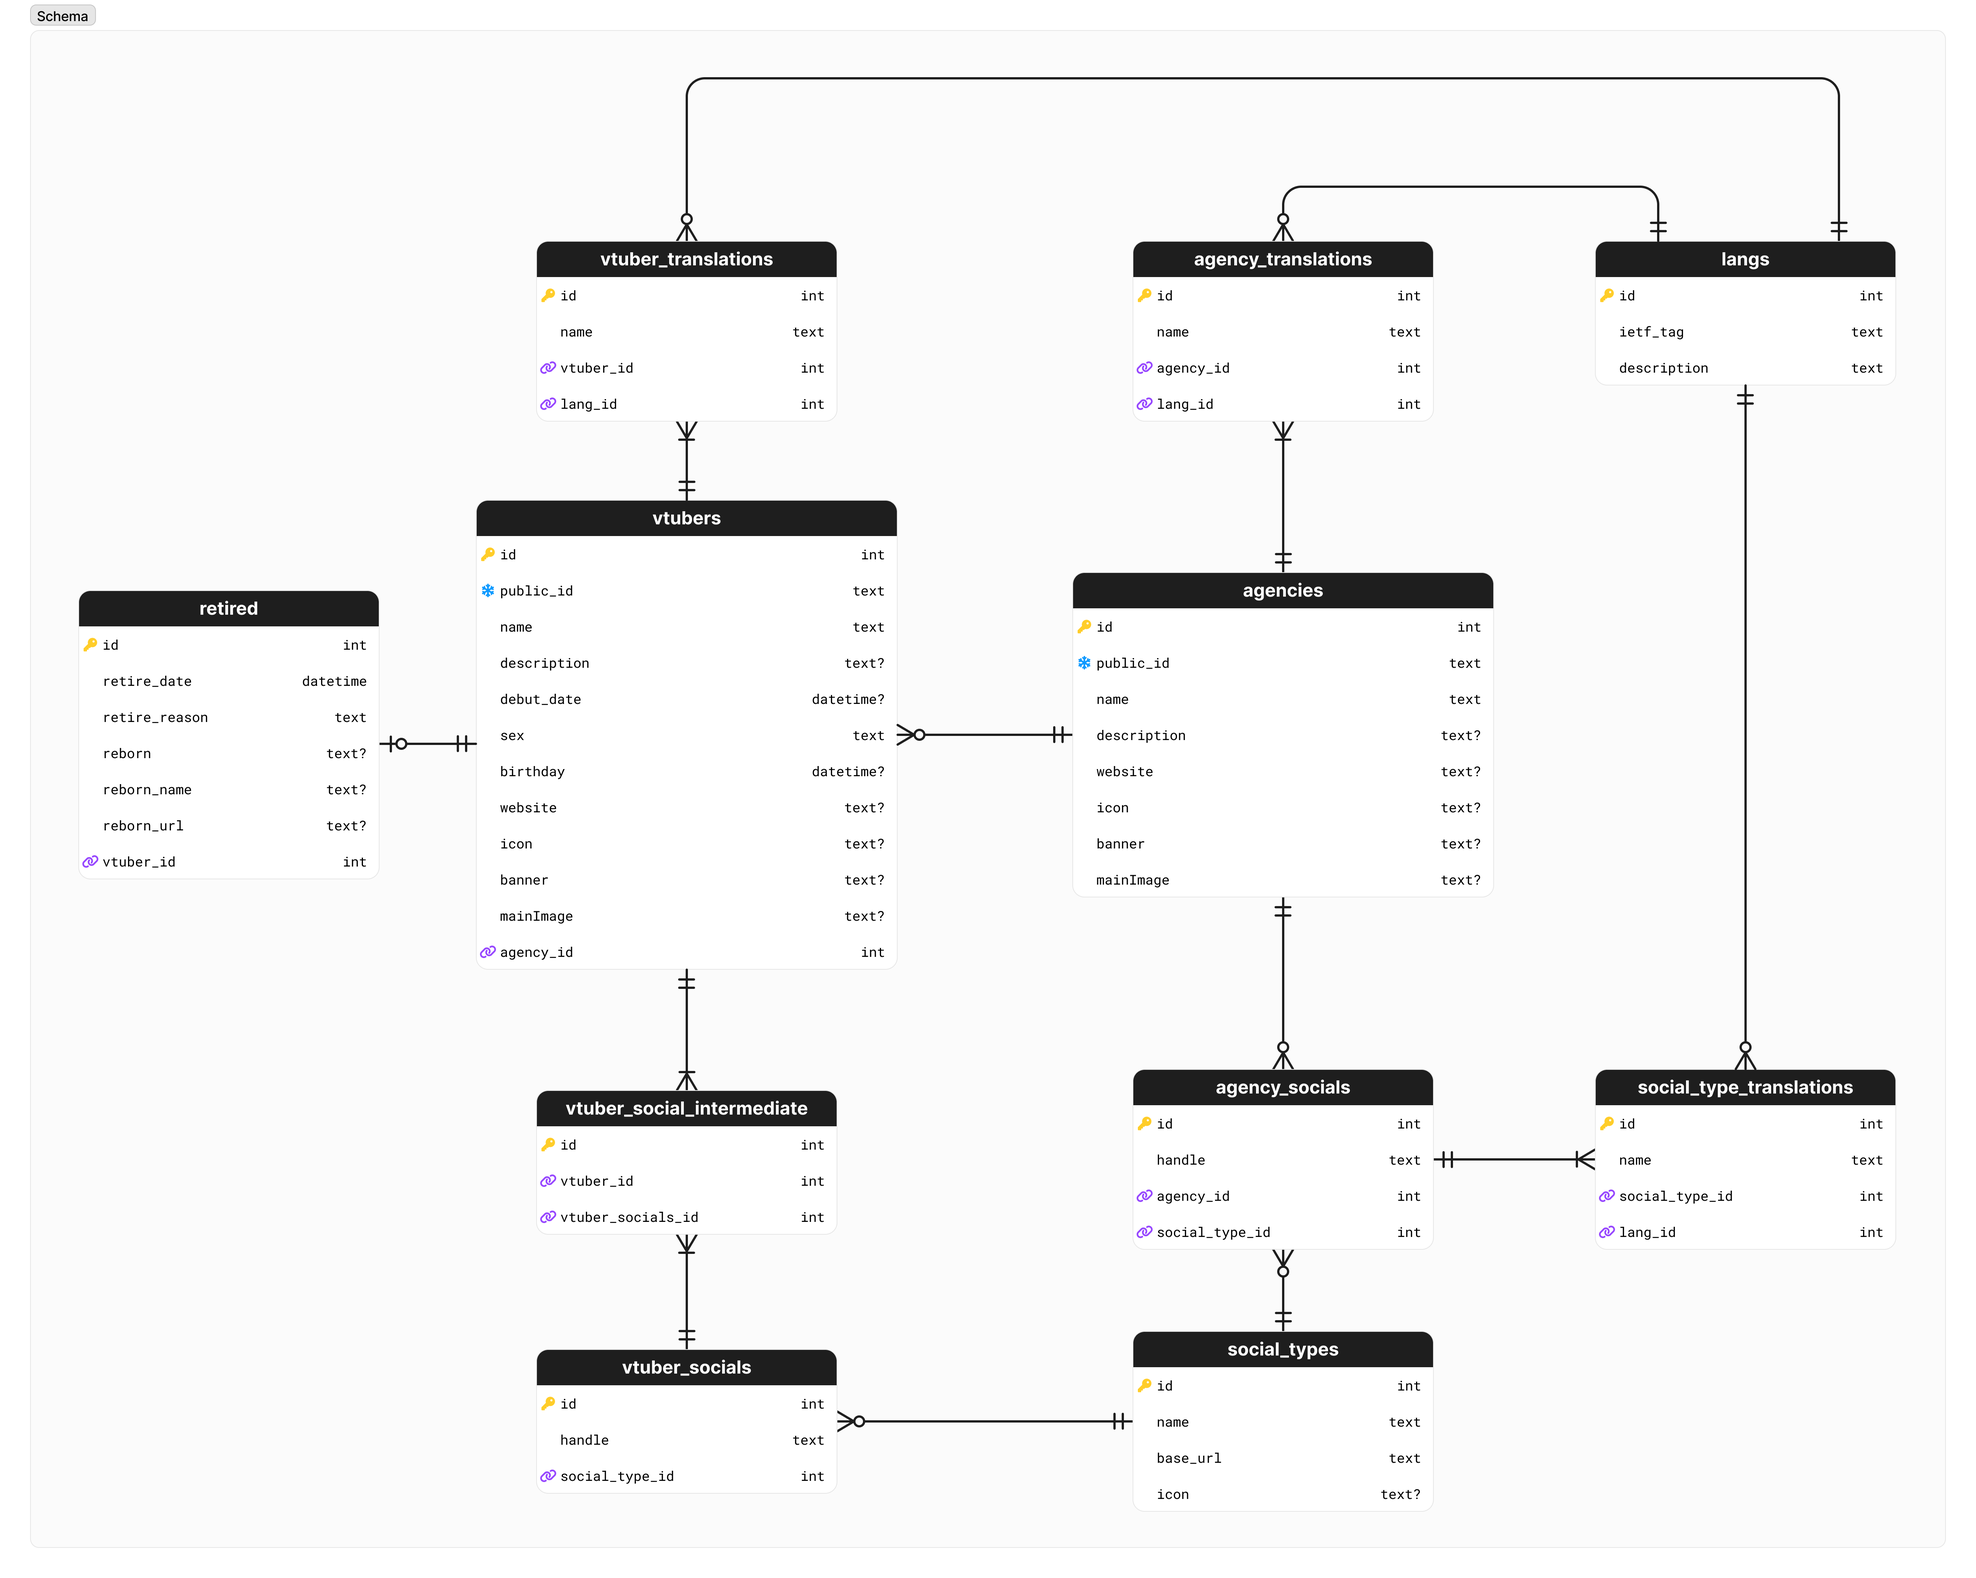
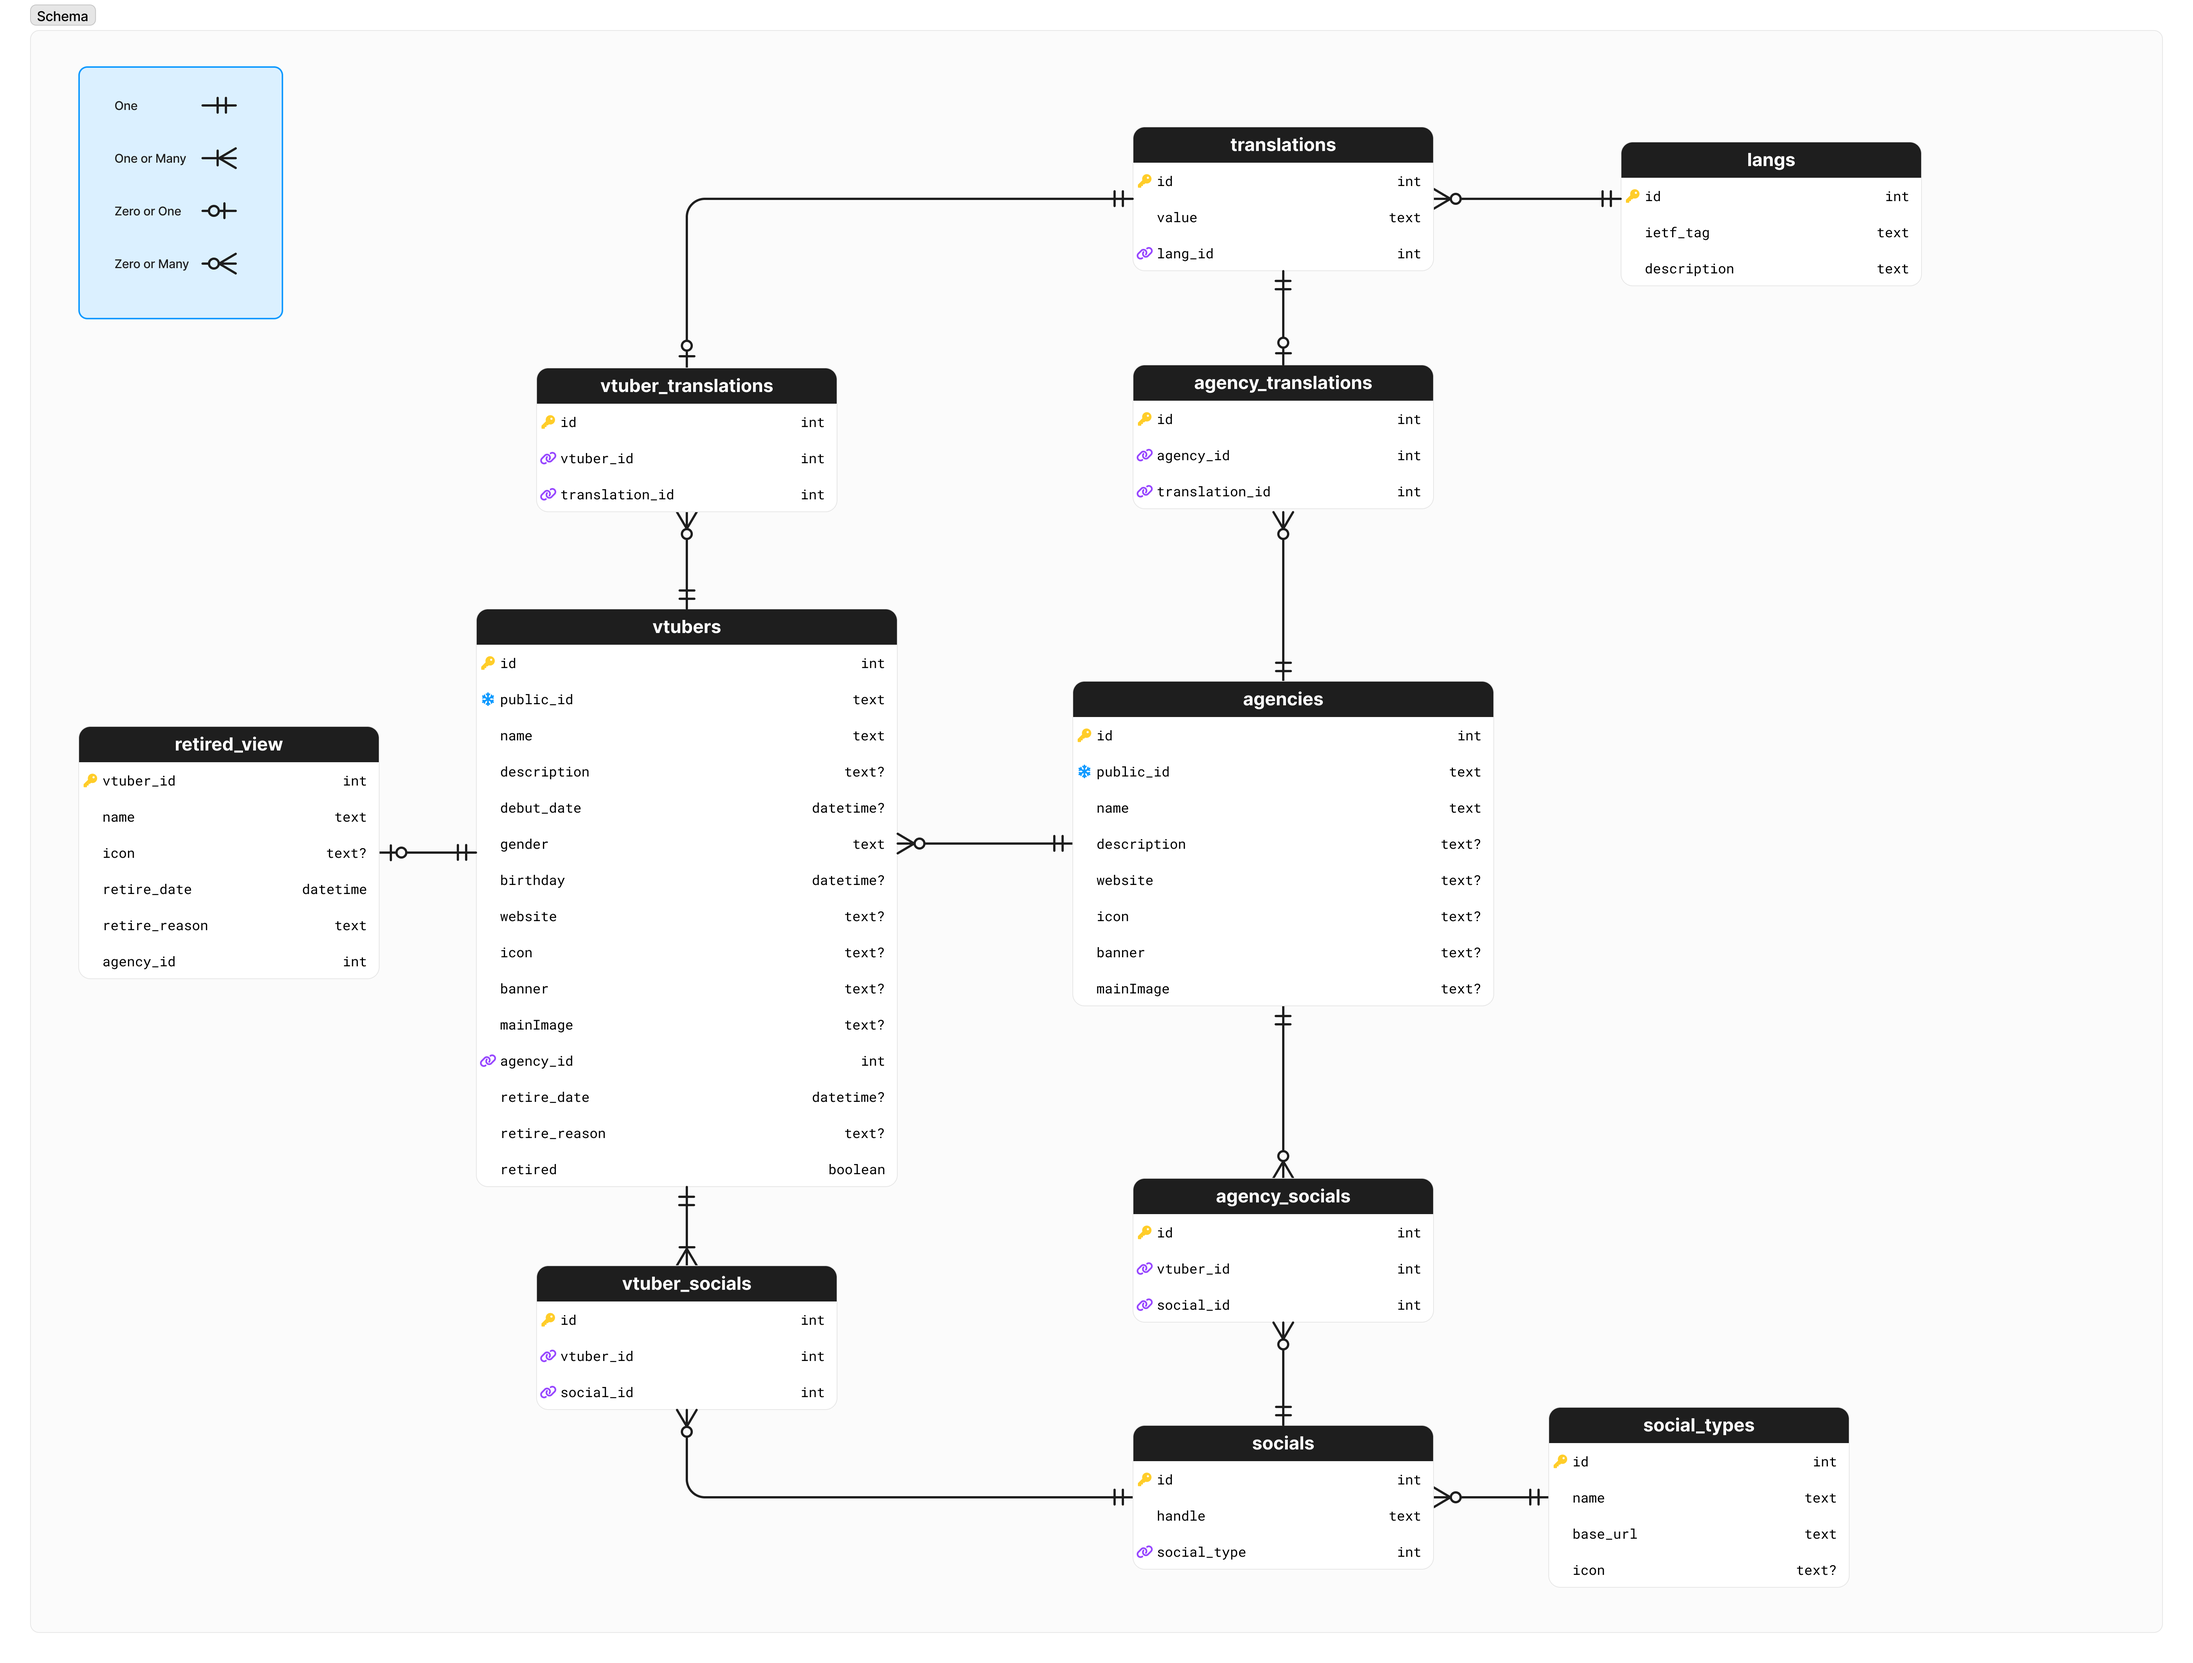
Update database schema

diff --git a/src/server/db/schema/vtubers.ts b/src/server/db/schema/vtubers.ts
@@ -1,20 +1,23 @@
 import { integer, sqliteTable, text } from "drizzle-orm/sqlite-core";
 
-import { agencies } from "./agency";
+import { agencies } from "./agencies";
 
 export const vtubers = sqliteTable("vtubers", {
 	id: integer("id").primaryKey({ autoIncrement: true }),
 	publicId: text("publicId").notNull().unique(),
 	name: text("name").notNull(),
-	agencyId: integer("agency_id")
-		.notNull()
-		.references(() => agencies.id),
 	description: text("description"),
 	debutDate: integer("debut_date", { mode: "timestamp" }),
-	sex: text("sex").notNull(),
+	gender: text("gender").notNull(),
 	birthday: integer("birthday", { mode: "timestamp" }),
 	website: text("website"),
 	icon: text("icon"),
 	banner: text("banner"),
 	mainImage: text("main_image"),
+	retired: integer("retired", { mode: "boolean" }).notNull().default(true),
+	retireDate: integer("retire_date", { mode: "timestamp" }),
+	retireReason: text("retire_reason"),
+	agencyId: integer("agency_id")
+		.notNull()
+		.references(() => agencies.id),
 });

diff --git a/src/server/db/schema/socials.ts b/src/server/db/schema/socials.ts
@@ -1,11 +1,11 @@
 import { integer, sqliteTable, text } from "drizzle-orm/sqlite-core";
 
-import { socialTypes } from "./social-type";
+import { socialTypes } from "./social-types";
 
-export const vtuberSocials = sqliteTable("vtuber_socials", {
+export const socials = sqliteTable("socials", {
 	id: integer("id").primaryKey({ autoIncrement: true }),
+	handle: text("handle").notNull(),
 	socialTypeId: integer("social_type_id")
 		.notNull()
 		.references(() => socialTypes.id),
-	handle: text("handle").notNull(),
 });

diff --git a/src/server/db/schema/agency-translations.ts b/src/server/db/schema/agency-translations.ts
@@ -1,0 +1,14 @@
+import { integer, sqliteTable } from "drizzle-orm/sqlite-core";
+
+import { agencies } from "./agencies";
+import { translations } from "./translations";
+
+export const agencyTranslations = sqliteTable("agency_translations", {
+	id: integer("id").primaryKey({ autoIncrement: true }),
+	agencyId: integer("agency_id")
+		.notNull()
+		.references(() => agencies.id),
+	translationId: integer("translation_id")
+		.notNull()
+		.references(() => translations.id),
+});

diff --git a/src/server/db/schema/vtuber-translations.ts b/src/server/db/schema/vtuber-translations.ts
@@ -1,0 +1,14 @@
+import { integer, sqliteTable } from "drizzle-orm/sqlite-core";
+
+import { translations } from "./translations";
+import { vtubers } from "./vtubers";
+
+export const vtuberTranslations = sqliteTable("vtuber_translations", {
+	id: integer("id").primaryKey({ autoIncrement: true }),
+	vtuberId: integer("vtuber_id")
+		.notNull()
+		.references(() => vtubers.id),
+	translationId: integer("translation_id")
+		.notNull()
+		.references(() => translations.id),
+});

diff --git a/src/server/db/schema/retired-view.ts b/src/server/db/schema/retired-view.ts
@@ -1,0 +1,18 @@
+import { eq } from "drizzle-orm";
+import { sqliteView } from "drizzle-orm/sqlite-core";
+
+import { vtubers } from "./vtubers";
+
+export const retiredView = sqliteView("retired_view").as((qb) =>
+	qb
+		.select({
+			id: vtubers.id,
+			name: vtubers.name,
+			icon: vtubers.icon,
+			retireDate: vtubers.retireDate,
+			retireReason: vtubers.retireReason,
+			agencyId: vtubers.agencyId,
+		})
+		.from(vtubers)
+		.where(eq(vtubers.retired, true)),
+);

diff --git a/src/server/db/schema/agency-socials.ts b/src/server/db/schema/agency-socials.ts
@@ -1,0 +1,14 @@
+import { integer, sqliteTable } from "drizzle-orm/sqlite-core";
+
+import { agencies } from "./agencies";
+import { socials } from "./socials";
+
+export const agencySocials = sqliteTable("agency_socials", {
+	id: integer("id").primaryKey({ autoIncrement: true }),
+	agencyId: integer("agency_id")
+		.notNull()
+		.references(() => agencies.id),
+	socialId: integer("social_id")
+		.notNull()
+		.references(() => socials.id),
+});

diff --git a/src/server/db/schema/vtuber-socials.ts b/src/server/db/schema/vtuber-socials.ts
@@ -1,0 +1,14 @@
+import { integer, sqliteTable } from "drizzle-orm/sqlite-core";
+
+import { socials } from "./socials";
+import { vtubers } from "./vtubers";
+
+export const vtuberSocials = sqliteTable("vtuber_socials", {
+	id: integer("id").primaryKey({ autoIncrement: true }),
+	vtuberId: integer("vtuber_id")
+		.notNull()
+		.references(() => vtubers.id),
+	socialId: integer("social_id")
+		.notNull()
+		.references(() => socials.id),
+});

diff --git a/src/server/db/schema/translations.ts b/src/server/db/schema/translations.ts
@@ -1,0 +1,9 @@
+import { integer, sqliteTable, text } from "drizzle-orm/sqlite-core";
+
+import { langs } from "./langs";
+
+export const translations = sqliteTable("translations", {
+  id: integer("id").primaryKey({ autoIncrement: true }),
+  value: text("value").notNull(),
+  langId: integer("lang_id").notNull().references(() => langs.id),
+});
